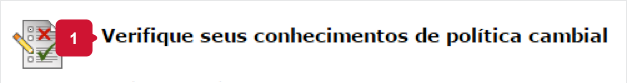
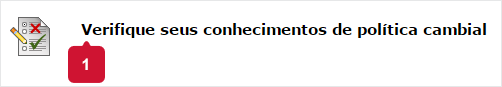
updates: manual aluno

Changed region(s): [[0.0, 0.1928, 0.9861, 0.9639]]

diff --git a/html/aluno/Blackboard/participacao-atividades/index.html b/html/aluno/Blackboard/participacao-atividades/index.html
@@ -109,11 +109,6 @@
                         <p>Caso o professor tenha solicitado o envio de uma atividade individual ou em grupo, faça o seguinte:</p>
                         <div class="imageContainer row">
                             <img src="../../../img/aluno/Blackboard/participacao-atividades/step1.png" alt="captura de tela-1" class="">
-                            <div class="boxDestaque">
-                                <ol>
-                                    <li>No local em que o professor disponibilizou a atividade, clique em seu título</li>
-                                </ol>
-                            </div>
                         </div>
                         <div class="imageContainer row">
                             <img src="../../../img/aluno/Blackboard/participacao-atividades/stepY.png" alt="captura de tela-2" class="">
@@ -146,15 +141,11 @@
                         <p>Para realizar um teste:</p>
                         <div class="imageContainer row">
                             <img src="../../../img/aluno/Blackboard/participacao-atividades/step-teste1.png" alt="captura de tela- Teste" class="">
-                            <div class="boxDestaque">
-                                No local em que o professor disponibilizou o teste, clique em seu título.
-                            </div>
+
                         </div>
                         <div class="imageContainer row">
                             <img src="../../../img/aluno/Blackboard/participacao-atividades/step-teste2.png" alt="captura de tela- Teste2" class="">
-                            <div class="boxDestaque">
-                                No local em que o professor disponibilizou o teste, clique em seu título.
-                            </div>
+    
                         </div>
                         <div class="imageContainer row">
                             <div class="boxDestaqueAdicional">

diff --git a/html/aluno/Curso-online/index.html b/html/aluno/Curso-online/index.html
@@ -88,7 +88,7 @@
                 <section class="mainContent c8">
                     <section class="headerContent row">
                         <div class="cabecalho fix">
-                            <p><span><strong>Atualizado: </strong>26/04/2016</span></p>
+                            <p><span><strong>Atualizado: </strong>01/06/2016</span></p>
                         </div>
                     </section>
                     <article class="contentMain row">
@@ -105,6 +105,12 @@
                         <h1 class="nameCategory">Apresentação dos cursos</h1>
                         <p>O Insper, em parceria com Harvard Business School, disponibiliza para aos alunos o acesso a cursos <em>online</em> integrados às disciplinas presenciais.</p>
                         <p>Esses cursos, oferecidos em inglês, são recursos de aprendizagem que têm como objetivo aprimorar a experiência de aprendizagem em relação aos conteúdos apresentados em sala de aula.</p>
+                        <div class="imageContainer row">
+                            <div class="boxDestaqueAdicional">
+                                <p><strong>Atenção!</strong></p>
+                                <p>As turmas que têm acesso aos cursos de Harvard são: <strong>APF</strong>, <strong>MBA</strong>, <strong>Certificates</strong> e <strong>Mestrados</strong>.</p>
+                            </div>
+                        </div>
 
                         <div class="sumario row">
                             <h3 id="sumarioAncora">Sumário</h3>

diff --git a/html/sass/layout/_layout.scss b/html/sass/layout/_layout.scss
@@ -16,8 +16,8 @@ $corDefault: #c00026; // red insper
 $corTitle: #2d2d2d; // title h1 html
 $corTexto: #414042; // default text content
 $corBorda: #bcbec0; // gray default
-$corDefaultDark: #7b0012; // red dark GUI
-$corSec01: #f57d8c; // secundary GUI
+$corDefaultDark: #c43150; // red dark GUI #7b0012
+$corSec01: #faa61a; // secundary GUI
 $corSec02: #e64b64; // secundary2 GUI
 
 // grids
